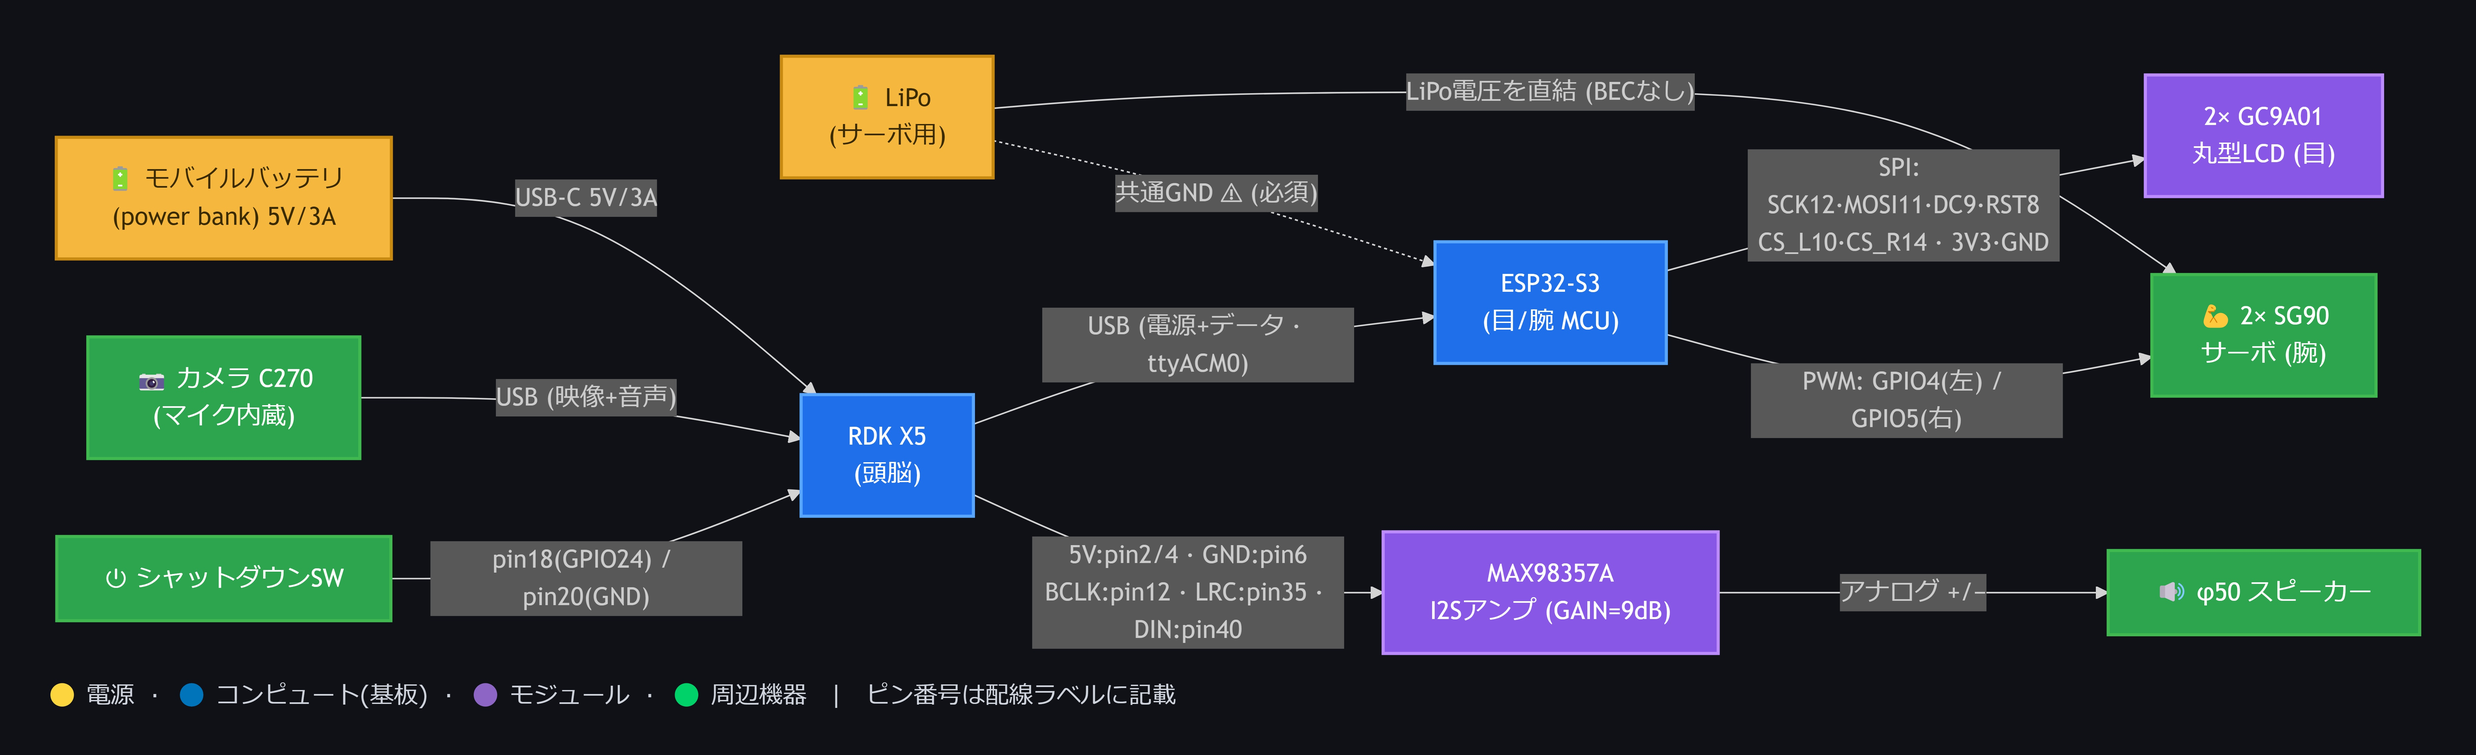
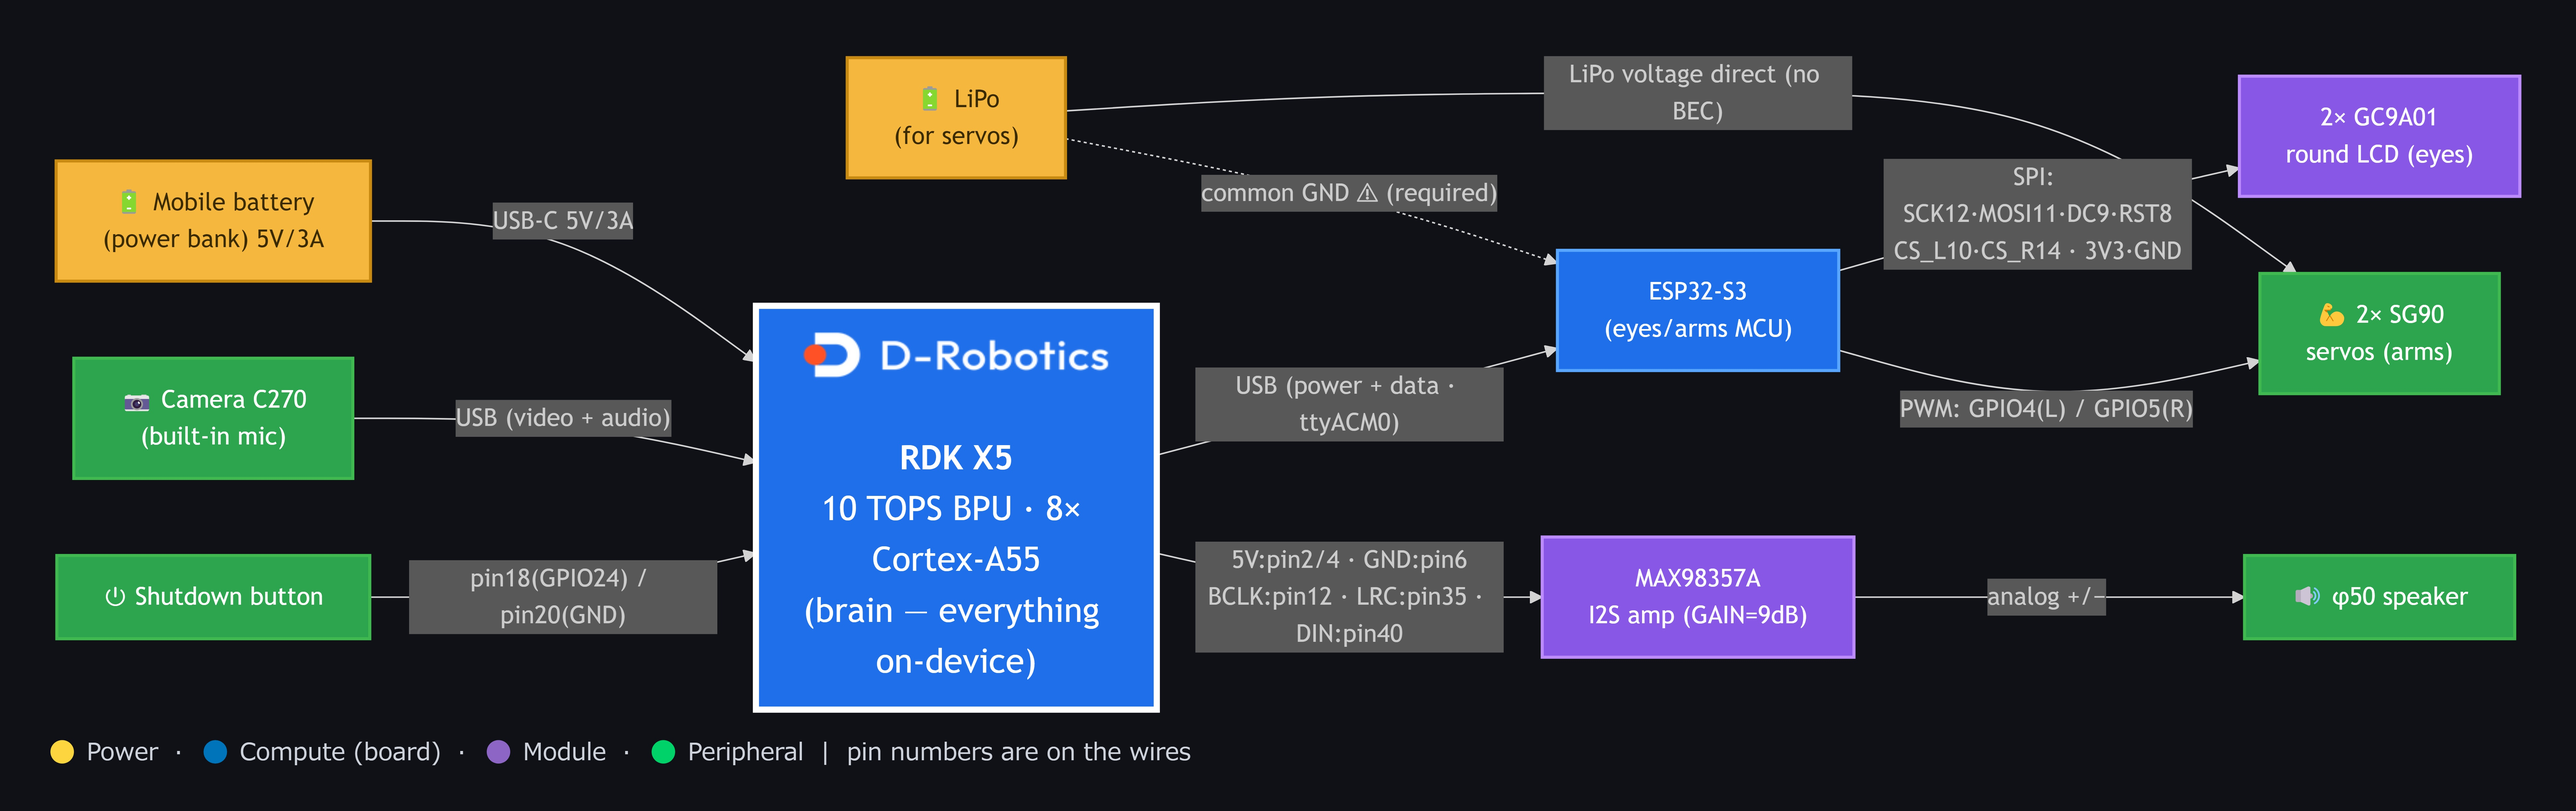
slides/docs: RDK X5を強調+D-Roboticsロゴ, 配線図を英語化, アーキ図のI2SをRDK由来に修正
- 接続図(wiring.md/jpg/png)を英語化。RDK X5をmainクラスで大きく強調し、
  D-Roboticsロゴ(白)をノード内に表示。
- スライド02(Architecture): I2Sスピーカは RDK X5→MAX98357A→φ50 が正。
  ESP32-S3はeyes/armsのみに修正。
- スライド03(Connections)のRDKにもロゴ。デッキJPG再出力。

diff --git a/docs/slides/index.html b/docs/slides/index.html
@@ -129,7 +129,8 @@ flowchart LR
     BPU["BPU · YOLO11n-pose · ~19.5 FPS"]:::bpu
     CPU["CPU · SenseVoice(STT) → TinySwallow(LLM) → Open JTalk/espeak(TTS)"]:::cpu
   end
-  RDK -->|UART| ESP["ESP32-S3 · eyes / arms / I2S speaker"]:::m
+  RDK -->|"I2S → MAX98357A"| SPK["🔊 φ50 speaker"]:::m
+  RDK -->|UART| ESP["ESP32-S3 · eyes / arms"]:::m
   classDef s fill:#1f6feb,color:#fff,stroke:#58a6ff;
   classDef bpu fill:#ff5a3c,color:#fff,stroke:#ff8a6c;
   classDef cpu fill:#2dd4a7,color:#06231b,stroke:#2dd4a7;
@@ -147,7 +148,7 @@ flowchart LR
 flowchart LR
   PB["🔋 Power bank<br/>5V/3A"]:::power
   LIPO["🔋 LiPo<br/>(servos)"]:::power
-  RDK["RDK X5<br/>(brain)"]:::compute
[1 lines of base64/hex data omitted]
   ESP["ESP32-S3<br/>(eyes/arms MCU)"]:::compute
   AMP["MAX98357A<br/>I2S amp"]:::module
   EYES["2× GC9A01<br/>eyes"]:::module
@@ -171,6 +172,7 @@ flowchart LR
   classDef compute fill:#1f6feb,color:#fff,stroke:#58a6ff,stroke-width:2px;
   classDef module  fill:#8957e5,color:#fff,stroke:#bc8cff,stroke-width:2px;
   classDef periph  fill:#2da44e,color:#fff,stroke:#3fb950,stroke-width:2px;
+  classDef main    fill:#1f6feb,color:#fff,stroke:#ffffff,stroke-width:3px;
 </pre>
     <p class="lead" style="margin-top:.25em;font-size:clamp(12px,1.35vw,16px)">🟡 power · 🔵 compute · 🟣 module · 🟢 peripheral &nbsp;|&nbsp; two rails (power bank + LiPo), <b>common ground</b> &nbsp;|&nbsp; detail → docs/wiring.md</p>
   </section>
@@ -239,7 +241,7 @@ flowchart LR
     if (window.mermaid) {
       const dark = matchMedia('(prefers-color-scheme: dark)').matches
                    || document.documentElement.getAttribute('data-theme') === 'dark';
-      mermaid.initialize({ startOnLoad: true, theme: dark ? 'dark' : 'default', securityLevel: 'loose' });
+      mermaid.initialize({ startOnLoad: true, theme: dark ? 'dark' : 'default', securityLevel: 'loose', htmlLabels: true, flowchart: { htmlLabels: true } });
     }
   } catch (e) {}
 </script>

diff --git a/docs/wiring.md b/docs/wiring.md
@@ -1,62 +1,69 @@
-# コロ助 接続図 / Wiring & connection diagram
+# Korosuke — Wiring & connection diagram
 
-主要部品（RDK X5 / ESP32-S3 / カメラ / MAX98357A / スピーカー / 目 / 腕サーボ /
-電源2系統）の接続。**電源は2系統（RDK用モバイルバッテリ ＋ サーボ用LiPo）で、GNDは共通**。
+How the main parts connect: RDK X5 / ESP32-S3 / camera / MAX98357A / speaker / eyes /
+arm servos, and **two power rails** (power bank for the RDK X5 + LiPo for the servos) with a
+**shared common ground**.
 
 ```mermaid
 flowchart LR
-  %% すべて矩形(□)。色はカテゴリ別。ピン番号は各配線(矢印)のラベルに分離。
-  PB["🔋 モバイルバッテリ<br/>(power bank) 5V/3A"]:::power
-  LIPO["🔋 LiPo<br/>(サーボ用)"]:::power
-  RDK["RDK X5<br/>(頭脳)"]:::compute
-  ESP["ESP32-S3<br/>(目/腕 MCU)"]:::compute
-  AMP["MAX98357A<br/>I2Sアンプ (GAIN=9dB)"]:::module
-  EYES["2× GC9A01<br/>丸型LCD (目)"]:::module
-  CAM["📷 カメラ C270<br/>(マイク内蔵)"]:::periph
-  BTN["⏻ シャットダウンSW"]:::periph
-  SPK["🔊 φ50 スピーカー"]:::periph
-  SRV["💪 2× SG90<br/>サーボ (腕)"]:::periph
+  %% All parts are boxes. Colour = category. Pin numbers are on the wires (edge labels).
+  PB["🔋 Mobile battery<br/>(power bank) 5V/3A"]:::power
+  LIPO["🔋 LiPo<br/>(for servos)"]:::power
+  RDK["🧠 RDK X5<br/>10 TOPS BPU · 8× Cortex-A55<br/>(brain — everything on-device)"]:::main
+  ESP["ESP32-S3<br/>(eyes/arms MCU)"]:::compute
+  AMP["MAX98357A<br/>I2S amp (GAIN=9dB)"]:::module
+  EYES["2× GC9A01<br/>round LCD (eyes)"]:::module
+  CAM["📷 Camera C270<br/>(built-in mic)"]:::periph
+  BTN["⏻ Shutdown button"]:::periph
+  SPK["🔊 φ50 speaker"]:::periph
+  SRV["💪 2× SG90<br/>servos (arms)"]:::periph
 
   PB   -->|"USB-C 5V/3A"| RDK
-  CAM  -->|"USB (映像+音声)"| RDK
+  CAM  -->|"USB (video + audio)"| RDK
   BTN  -->|"pin18(GPIO24) / pin20(GND)"| RDK
-  RDK  -->|"USB (電源+データ · ttyACM0)"| ESP
+  RDK  -->|"USB (power + data · ttyACM0)"| ESP
   RDK  -->|"5V:pin2/4 · GND:pin6<br/>BCLK:pin12 · LRC:pin35 · DIN:pin40"| AMP
-  AMP  -->|"アナログ +/−"| SPK
+  AMP  -->|"analog +/−"| SPK
   ESP  -->|"SPI: SCK12·MOSI11·DC9·RST8<br/>CS_L10·CS_R14 · 3V3·GND"| EYES
-  ESP  -->|"PWM: GPIO4(左) / GPIO5(右)"| SRV
-  LIPO -->|"LiPo電圧を直結 (BECなし)"| SRV
-  LIPO -.->|"共通GND ⚠ (必須)"| ESP
+  ESP  -->|"PWM: GPIO4(L) / GPIO5(R)"| SRV
+  LIPO -->|"LiPo voltage direct (no BEC)"| SRV
+  LIPO -.->|"common GND ⚠ (required)"| ESP
 
   classDef power   fill:#f6b73f,color:#3a2a00,stroke:#c98a12,stroke-width:2px;
   classDef compute fill:#1f6feb,color:#fff,stroke:#58a6ff,stroke-width:2px;
   classDef module  fill:#8957e5,color:#fff,stroke:#bc8cff,stroke-width:2px;
   classDef periph  fill:#2da44e,color:#fff,stroke:#3fb950,stroke-width:2px;
+  classDef main    fill:#1f6feb,color:#fff,stroke:#ffffff,stroke-width:4px,font-size:22px;
 ```
 
-**凡例 / Legend**: 🟡 電源 ・ 🔵 コンピュート(基板) ・ 🟣 モジュール ・ 🟢 周辺機器。
-モジュールはすべて□(矩形)、**ピン番号は各配線(矢印)のラベル**に記載。
+**Legend**: 🟡 Power · 🔵 Compute (board) · 🟣 Module · 🟢 Peripheral.
+All parts are boxes; **pin numbers are on the wires (edge labels)**.
 
-## 接続表（配線一覧）
+## Connection table
 
-| From | ピン/ポート | → To | ピン | 内容 |
+| From | Pin / port | → To | Pin | Signal |
 |---|---|---|---|---|
-| モバイルバッテリ | USB-C 5V/3A | RDK X5 | USB-C(電源) | RDK電源 |
-| RDK X5 | USB-A | ESP32-S3 | USB(ネイティブCDC) | **電源+データ**（`/dev/ttyACM0`） |
-| RDK X5 40pin | **2/4**=5V, **6**=GND | MAX98357A | VIN, GND | アンプ電源 |
-| RDK X5 40pin | **12**=BCLK, **35**=LRC, **40**=DIN | MAX98357A | BCLK/LRC/DIN | I2S音声出力 |
-| MAX98357A | +/− | φ50スピーカー | — | アナログ出力 |
-| RDK X5 40pin | **18**(GPIO24), **20**(GND) | 押しボタン | — | 安全シャットダウン |
-| RDK X5 | USB-A | カメラ C270 | USB | 映像 + マイク |
-| ESP32-S3 | 12/11/9/8/10/14 + 3V3/GND | 2× GC9A01 | SCK/MOSI/DC/RST/CS_L/CS_R | 目（SPI共有・CS分離） |
-| ESP32-S3 | **GPIO4**(左) / **GPIO5**(右) | 2× SG90 | 信号 | 腕サーボPWM |
-| LiPo | 電圧を直結 | SG90 サーボ | V+ | **サーボ専用電源（BEC/レギュレータなし）** |
-| LiPo | GND | ESP32-S3 / RDK | GND | **共通GND（必須）** |
+| Mobile battery | USB-C 5V/3A | RDK X5 | USB-C (power) | RDK power |
+| RDK X5 | USB-A | ESP32-S3 | USB (native CDC) | **power + data** (`/dev/ttyACM0`) |
+| RDK X5 40-pin | **2/4**=5V, **6**=GND | MAX98357A | VIN, GND | amp power |
+| RDK X5 40-pin | **12**=BCLK, **35**=LRC, **40**=DIN | MAX98357A | BCLK/LRC/DIN | I2S audio out |
+| MAX98357A | +/− | φ50 speaker | — | analog out |
+| RDK X5 40-pin | **18**(GPIO24), **20**(GND) | Push button | — | safe shutdown |
+| RDK X5 | USB-A | Camera C270 | USB | video + mic |
+| ESP32-S3 | 12/11/9/8/10/14 + 3V3/GND | 2× GC9A01 | SCK/MOSI/DC/RST/CS_L/CS_R | eyes (shared SPI, separate CS) |
+| ESP32-S3 | **GPIO4**(L) / **GPIO5**(R) | 2× SG90 | signal | arm servo PWM |
+| LiPo | voltage direct | SG90 servos | V+ | **servo power (no BEC/regulator)** |
+| LiPo | GND | ESP32-S3 / RDK | GND | **common ground (required)** |
 
-## 注意 / ポイント
-- **電源2系統**: RDK X5 はモバイルバッテリ（5V/3A以上・良質なUSB-Cケーブル。半差し/細ケーブルはブラウンアウトの原因 → [power_usb_troubleshooting.md](power_usb_troubleshooting.md)）。サーボは**別のLiPo**で駆動（突入電流でRDKを落とさないため）。
-- **共通GND必須**: LiPo(サーボ) と ESP32-S3/RDK の GND を必ず繋ぐ。繋がないとサーボPWMが不安定。
-- **サーボはLiPo電圧を直結**（5V BEC/レギュレータは入れていない）。SG90の定格(4.8〜6V)に収まるLiPo構成にすること（過電圧に注意）。
-- **ESP32-S3への配線は基本USB1本**（電源+`ttyACM0`データ）。UART直結にする場合は ESP32 RX=GPIO18 / TX=GPIO17（[firmware/corosuke_eyes](../firmware/corosuke_eyes)）。
-- **MAX98357A GAIN**: 未接続=9dB（既定）。詳細 → [rdk_x5_40pin_i2s_max98357a.md](rdk_x5_40pin_i2s_max98357a.md)。
-- 目の詳細ピンは [firmware/corosuke_eyes/src/main.cpp](../firmware/corosuke_eyes/src/main.cpp) 冒頭コメント参照。
+## Notes
+- **Two power rails**: the RDK X5 runs from the power bank (5V/3A+, a good USB-C cable — a
+  half-seated / thin cable causes brown-outs → [power_usb_troubleshooting.md](power_usb_troubleshooting.md)).
+  The servos run from a **separate LiPo** (so servo inrush current can't drop the RDK).
+- **Common ground is required**: tie the LiPo (servo) GND to the ESP32-S3 / RDK GND, or the
+  servo PWM will be unstable.
+- **Servos run directly on the LiPo voltage** — no 5V BEC/regulator is fitted. Choose a LiPo
+  within the SG90 range (4.8–6V); avoid over-voltage.
+- **ESP32-S3 is wired with a single USB cable** (power + `ttyACM0` data). To use a direct UART
+  instead: ESP32 RX=GPIO18 / TX=GPIO17 ([firmware/corosuke_eyes](../firmware/corosuke_eyes)).
+- **MAX98357A GAIN**: floating = 9 dB (default). Details → [rdk_x5_40pin_i2s_max98357a.md](rdk_x5_40pin_i2s_max98357a.md).
+- Full eye pinout: see the header comment in [firmware/corosuke_eyes/src/main.cpp](../firmware/corosuke_eyes/src/main.cpp).
